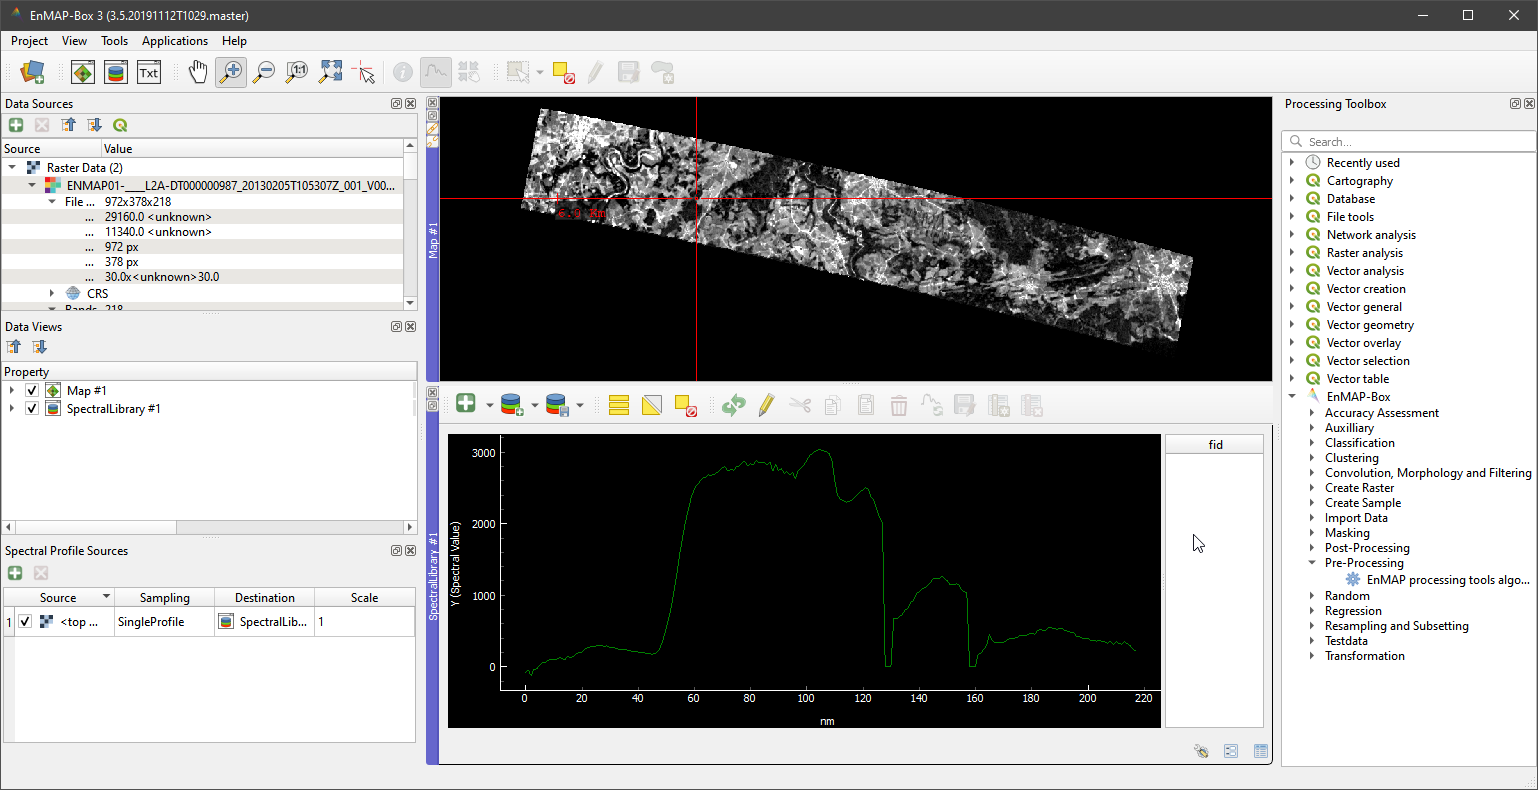
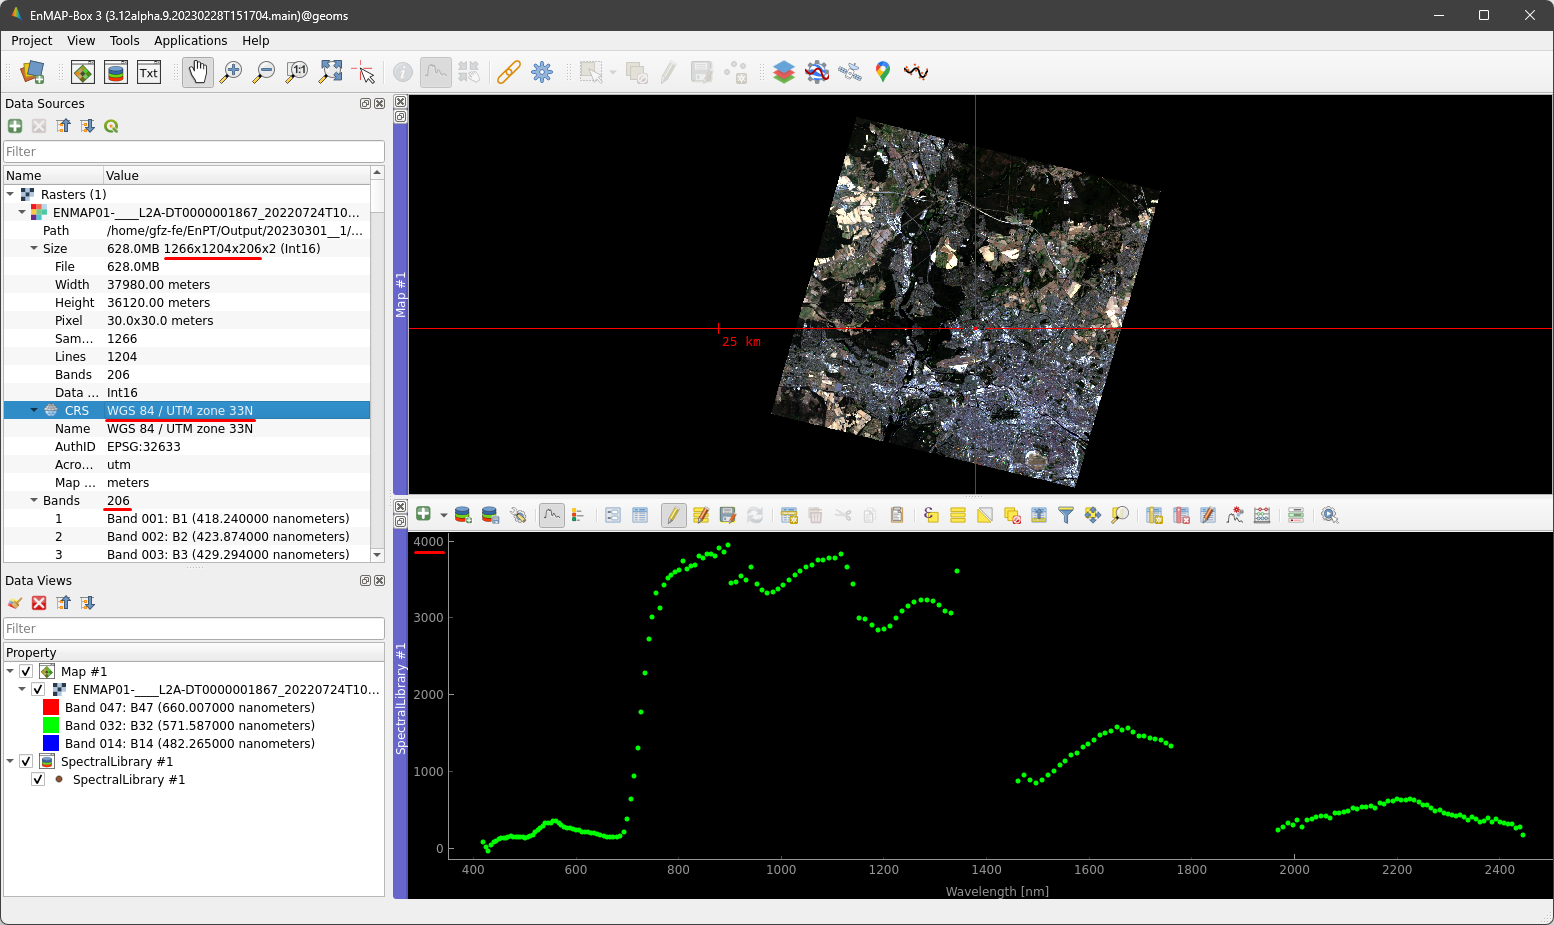
Update sections about L2A generation and output inspection.

diff --git a/docs/tutorial.rst b/docs/tutorial.rst
@@ -114,28 +114,29 @@ reasons:
 .. note::
 
     The EnMAP-Box features a tool to import EnMAP Level-1B data
-    (:menuselection:`EnMAP-Box --> Project --> Add product --> EnMAP L1B`)
+    (:menuselection:`EnMAP-Box --> Project Menu --> Add product --> EnMAP L1B`)
     which directly applies scales and offsets to each band and adds some metadata such as central wavelength positions.
     This is convenient as the data is directly shown in radiance units, however, users should keep in mind that the
-    actual (scaled) L1B pixel values are different.
+    actual (scaled) L1B pixel values are stretched to the unsigned integer 16-bit value range.
 
 
 Generate Level-2A data using EnPT
 ---------------------------------
 
 The EnMAP processing tool (EnPT) generates Level-2A from Level-1B data, i.e., processes the EnMAP data from the
-raw format to geometrically and atmospherically corrected bottom-of-atmosphere reflectance. Please refer to the
-:ref:`algorithm_description` section of this documentation for more information on the underlying algorithms.
+raw format (top-of-atmosphere radiance in sensor geometry) to geometrically and atmospherically corrected
+bottom-of-atmosphere reflectance. Please refer to the :ref:`algorithm_description` section of this documentation for
+more information on the underlying algorithms.
 
 Open the EnPT GUI to run the processing chain. You can find it here:
-:menuselection:`QGIS 3.xx --> EnMAP-Box --> Processing Toolbox --> EnMAP-Box --> Pre-Processing --> EnMAP processing tool algorithm`.
+:menuselection:`QGIS 3.xx --> EnMAP-Box --> Applications Menu --> EnPT (EnMAP Processing Tool) --> Start EnPT GUI`.
 
-.. image:: img/screenshot_enpt_enmapboxapp_v0.6.0.png
+.. image:: img/screenshot_enpt_enmapboxapp_v0.7.4.png
 
-Select the :file:`ENMAP01-____L1B-DT000000987_20130205T105307Z_001_V000101_20190426T143700Z__rows0-99.zip` downloaded
-above at the parameter **L1B EnMAP image** and check that the **Anaconda root directory** points to the correct
-Anaconda directory which contains the `enpt` Python environment (see :ref:`installation`). All other parameters are
-set to a default or not strictly needed to generate Level-2A data. However, they may improve the output quality.
+Select the EnMAP L1B zip-archive (:file:`ENMAP01-____L1B*.ZIP`) at the parameter **L1B EnMAP image**. All other
+parameters are set to a default or not strictly needed to generate Level-2A data. However, they may improve the output
+quality. Documentation about the parameters is provided
+`here <https://enmap.git-pages.gfz-potsdam.de/GFZ_Tools_EnMAP_BOX/EnPT/doc/usage.html#command-line-utilities>`__.
 
 Press the **Run** button to start the processing. The current status is shown in the **Log** panel and the QGIS Python
 console. After processing, the output directory is indicated in the Log panel.
@@ -149,21 +150,30 @@ other files, such as metadata, quality layers, etc.:
 
 .. image:: img/tut__contents_l2a_output.png
 
+For descriptions of the individual files, see `here <https://enmap.git-pages.gfz-potsdam.de/GFZ_Tools_EnMAP_BOX/EnPT/doc/algorithm_descriptions.html#enmap-level-2a-data-writer>`__.
+
 .. note::
 
     The output directory will contain additional layers in future.
 
 Load the :file:`ENMAP*L2A*-SPECTRAL_IMAGE.TIF` into
 the EnMAP-Box_. Unfold the entry in the **Data sources** panel to explore some metadata of the Level-2A EnMAP-image.
-The image has a dimension of 972 x 378 pixels in x- and y-direction and contains 218 bands. The different image
+The image has a dimension of 1266 x 1204 pixels in x- and y-direction and contains 206 bands. The different image
 dimensions compared with Level-1B data are due to the geometric correction / orthorectification applied by EnPT.
-Furthermore, the image is now projected in WGS84 / UTM zone 32N.
+Furthermore, the image is now projected in WGS84 / UTM zone 33N.
 
-Visualize the first band of the image and open a Spectral Library window as described above. The spectral information
-now contains atmospherically corrected bottom-of-atmosphere reflectance data. The two detector images have been merged
-so that their spectral information can now be used together. Spatio-temporal varying interferences on the spectra have
-been corrected as far as possible.
+Right-click on the image in the **Data Sources** panel and select :menuselection:`Open in new map --> True Color` to
+visualize an RGB band combination and open a Spectral Library window as described above. The spectral information
+now contains atmospherically corrected bottom-of-atmosphere reflectance data (scaled between 0 and 10000 by default).
+The two detector images have been merged so that their spectral information can now be used together. Spatio-temporal
+varying interferences on the spectra have been corrected as far as possible.
 
 .. image:: img/tut__enmapbox_l2a_output.png
 
 The generated EnMAP Level-2A data can now be used for subsequent remote sensing applications.
+
+.. note::
+
+    Also for EnMAP Level 2A data, the EnMAP-Box provides a convenient data import dialog
+    (:menuselection:`EnMAP-Box --> Project Menu --> Add product --> EnMAP L2A`) which scales the EnPT L2A
+    output between 0 and 1.
